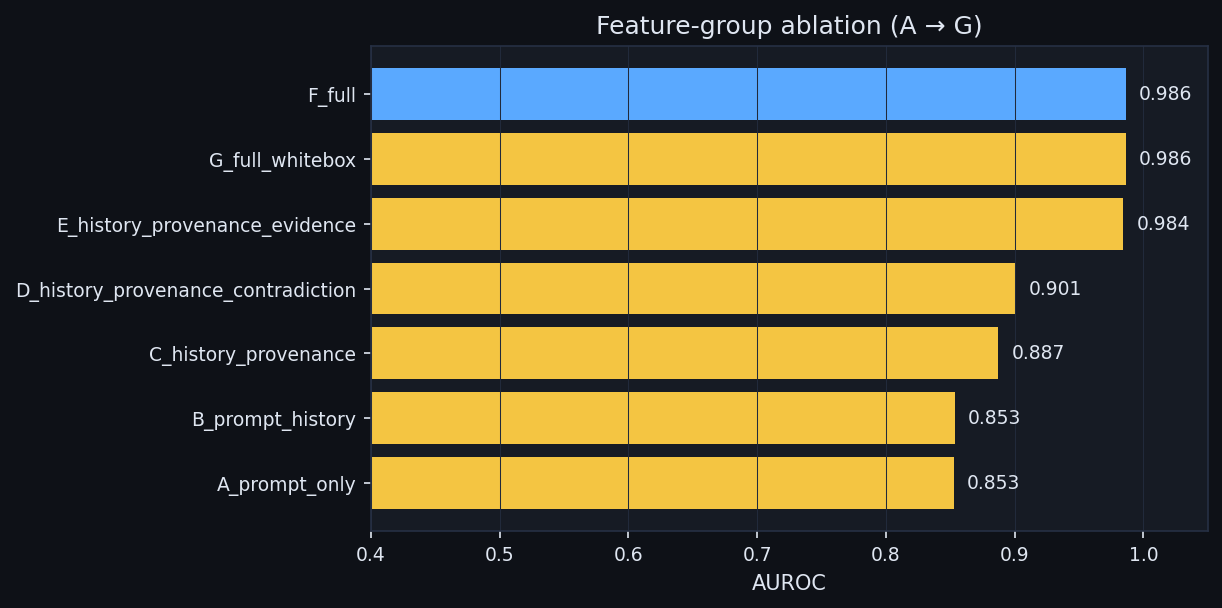
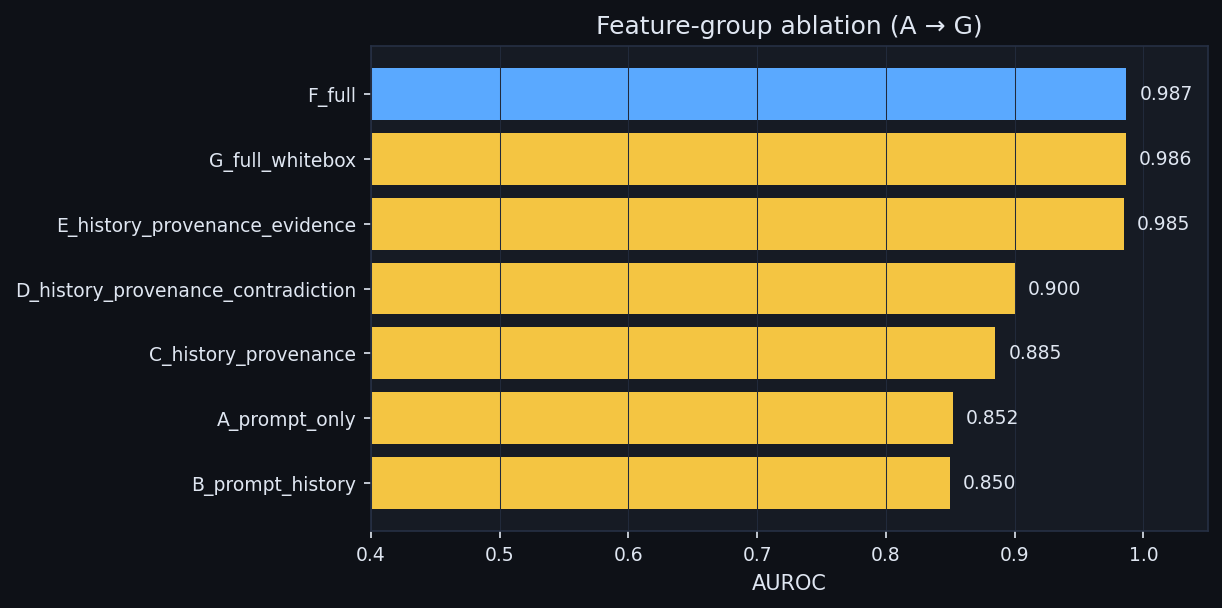
chore: sync published metrics and guard the README against drift
One small consistency pass after the latest engine fixes:
- regenerate both ablation artifacts, report, figures and paper so every
  artifact reflects the same current model/features;
- sync README and external-evaluation/leakage-control docs to the fresh
  report (precision/recall, cross-label AUROCs, external CIs and ablations
  had drifted from the saved artifacts);
- add a test that checks the README headline table and action-gate row
  against reports/stats.json, so this kind of drift fails CI next time.

The conference template and decision-log edits in the working tree are
user files and are intentionally not included.

Validation: 148 tests pass.

diff --git a/tests/test_report_paper.py b/tests/test_report_paper.py
@@ -1,6 +1,7 @@
 """Report + paper pipeline tests (static rendering, no LaTeX engine needed)."""
 import json
 import re
+from decimal import Decimal, ROUND_HALF_UP
 from pathlib import Path
 
 import pytest
@@ -83,6 +84,36 @@ def test_macros_contain_headline_numbers(stats):
     tex = render_macros(stats)
     assert f"{stats['model']['auroc']:.3f}" in tex
     assert "PASS" in tex or "FAIL" in tex
+
+
+def test_readme_headline_table_matches_generated_stats(stats):
+    """The README is user-facing results; don't let its numbers go stale."""
+    readme = (ROOT / "README.md").read_text()
+    leak = stats["leak_control"]["model"]
+    main = stats["model"]
+    heuristic = stats["heuristic_baseline"]
+
+    expected_rows = (
+        f"| AUROC | **{leak['auroc']:.3f}** | {main['auroc']:.3f}",
+        f"| AUPRC | **{leak['auprc']:.3f}** | {main['auprc']:.3f}",
+        f"| F1 @ tuned threshold | **{leak['f1']:.3f}** "
+        f"(P {leak['precision']:.3f} / R {leak['recall']:.3f}) | {main['f1']:.3f}",
+        f"{heuristic['auroc']:.3f} |",
+    )
+    for row in expected_rows:
+        assert row in readme, f"README headline table is stale; missing {row!r}"
+
+    def display(value):
+        return str(Decimal(str(value)).quantize(Decimal("0.001"), rounding=ROUND_HALF_UP))
+
+    gates = stats["benchmark"]["gates"]
+    gate_row = (
+        f"coverage {gates['coverage'] * 100:.1f} %, "
+        f"{gates['positives_caught'] * 100:.1f} % caught, "
+        f"generated-turn rate {display(gates['risk_generated'])} "
+        f"vs base {display(gates['risk_overall'])}"
+    )
+    assert gate_row in readme, f"README action gates are stale; missing {gate_row!r}"
 
 
 def test_tables_escape_underscores_and_render(stats):

diff --git a/paper/tables.tex b/paper/tables.tex
@@ -47,13 +47,13 @@ unsupported\_presupposition & 11 & 1.000 & 1.000 & 0.000 \\
 \toprule
 ID & Feature group & AUROC & $\Delta$ \\
 \midrule
-F & Full black-box feature set & 0.986 \\
+F & Full black-box feature set & 0.987 \\
 G & Full + white-box model signals & 0.986 & -0.000 \\
-E & History + provenance + evidence & 0.984 & -0.002 \\
-D & Prompt + history + provenance + contradiction & 0.901 & -0.085 \\
-C & Prompt + history + provenance & 0.887 & -0.099 \\
-B & Prompt + history & 0.853 & -0.133 \\
-A & Prompt only & 0.853 & -0.133 \\
+E & History + provenance + evidence & 0.985 & -0.002 \\
+D & Prompt + history + provenance + contradiction & 0.900 & -0.087 \\
+C & Prompt + history + provenance & 0.885 & -0.102 \\
+A & Prompt only & 0.852 & -0.135 \\
+B & Prompt + history & 0.850 & -0.137 \\
 \bottomrule
 \end{tabular}
 \end{table}
@@ -99,11 +99,11 @@ Quantity & PHC-Conversation & leak-controlled \\
 \midrule
 Templates identifying one category & 84.2\% & 0.0\% \\
 Template lookup AUROC & 0.808 & 0.635 \\
-A: prompt only & 0.853 & 0.434 \\
-C: + history, provenance & 0.887 & 0.793 \\
-D: + contradiction & 0.901 & 0.804 \\
-E: + evidence & 0.984 & 0.964 \\
-F: full & 0.986 & 0.961 \\
+A: prompt only & 0.852 & 0.434 \\
+C: + history, provenance & 0.885 & 0.793 \\
+D: + contradiction & 0.900 & 0.804 \\
+E: + evidence & 0.985 & 0.964 \\
+F: full & 0.987 & 0.961 \\
 \bottomrule
 \end{tabular}
 \end{table}

diff --git a/paper/macros.tex b/paper/macros.tex
@@ -51,11 +51,11 @@
 \newcommand{\riskgenerated}{0.021}
 \newcommand{\riskoverall}{0.633}
 \newcommand{\gatestatus}{PASS}
-\newcommand{\latmedian}{20.5}
-\newcommand{\lathigh}{23.4}
-\newcommand{\latmean}{20.4}
-\newcommand{\promptauroc}{0.853}
-\newcommand{\evidenceauroc}{0.984}
+\newcommand{\latmedian}{19.7}
+\newcommand{\lathigh}{21.1}
+\newcommand{\latmean}{19.3}
+\newcommand{\promptauroc}{0.852}
+\newcommand{\evidenceauroc}{0.985}
 \newcommand{\dian}{5923}
 \newcommand{\diaauroc}{0.431}
 \newcommand{\diastr}{0.510}

diff --git a/README.md b/README.md
@@ -30,12 +30,12 @@ type — the prompt-only ablation collapses to chance while the model holds:
 |---|---|---|---|
 | AUROC | **0.961** | 0.987 [0.972, 0.996] (1000× bootstrap CI) | 0.724 |
 | AUPRC | **0.981** | 0.992 | 0.852 |
-| F1 @ tuned threshold | **0.928** (P 0.970 / R 0.889) | 0.947 (P 0.942 / R 0.961) | 0.716 |
+| F1 @ tuned threshold | **0.928** (P 0.970 / R 0.889) | 0.947 (P 0.925 / R 0.971) | 0.716 |
 | ECE (10-bin) | 0.043 | 0.050 (0.092 uncalibrated) | 0.252 |
-| Multi-seed AUROC | 0.962 ± 0.001 (seeds 42 / 123 / 2024) | 0.987 ± 0.000 | — |
+| Multi-seed AUROC | 0.9619 ± 0.0009 (seeds 42 / 123 / 2024) | 0.9867 ± 0.0002 | — |
 | *Template lookup (leakage probe)* | *0.635* | *0.808* | *—* |
 | *Prompt-only ablation* | *0.434 (chance)* | *0.853* | *—* |
-| Action-level gates | **PASS** (coverage 52.3 %, 90.3 % caught, generated-turn rate 0.100 vs base 0.673) | **PASS** (coverage 52.8 %, 97.1 % caught, generated-turn rate 0.021 vs base 0.633) | — |
+| Action-level gates | **PASS** (coverage 52.3 %, 90.3 % caught, generated-turn rate 0.100 vs base 0.673) | **PASS** (coverage 52.8 %, 97.1 % caught, generated-turn rate 0.021 vs base 0.634) | — |
 
 The prompt-only figure on the standard benchmark is a memorised lookup, not
 a measure of what the prompt carries; the leak-controlled column is the
@@ -73,7 +73,7 @@ phc ablation --config configs/ablation.yaml \
 | Templates identifying one category | 84.2 % | 0.0 % |
 | Template lookup AUROC | 0.808 | 0.635 |
 | A: prompt only | 0.853 | **0.434** (chance) |
-| E: + history, provenance, evidence | 0.984 | 0.964 |
+| E: + history, provenance, evidence | 0.985 | 0.964 |
 | F: full | 0.987 | **0.961** |
 
 The prompt-only ablation collapses to chance while the full model barely
@@ -83,8 +83,8 @@ was already coming from the conversation.
 **Generalisation stress tests** (`phc stress`):
 
 - *Cross-label source* — training on `label_gold` and scoring against
-  `label_verified` gives AUROC **0.779** (against 0.987 for its own source),
-  and the reverse gives **0.694** (against 0.989). The model keeps much of
+  `label_verified` gives AUROC **0.779** (against 0.982 for its own source),
+  and the reverse gives **0.671** (against 0.988). The model keeps much of
   its discrimination against a label source it has never seen.
 - *Leave-one-category-out* — training on ten risk types and testing on the
   eleventh gives mean AUROC **0.804 ± 0.285** over 9 categories, from
@@ -92,16 +92,16 @@ was already coming from the conversation.
   framework transfers to risk types it has never seen for most categories,
   and fails on the two whose signal is specific to having seen them.
 
-Ablation AUROC (standard benchmark): `A_prompt_only` 0.853 → `B` 0.853 →
-`C` 0.887 → `D` 0.901 → `E_history_provenance_evidence` 0.984 →
-`F_full` 0.986. On the leak-controlled variant the same ladder reads
+Ablation AUROC (standard benchmark): `A_prompt_only` 0.852 → `B` 0.850 →
+`C` 0.885 → `D` 0.900 → `E_history_provenance_evidence` 0.985 →
+`F_full` 0.987. On the leak-controlled variant the same ladder reads
 0.434 → 0.789 → 0.793 → 0.804 → 0.964 → 0.961, and the ordering is the one
-the method section claims: history and provenance get you to 0.800,
+the method section claims: history and provenance get you to 0.793,
 contradiction adds a little, and evidence coverage is the single largest
 contributor.
 
 The cost-sensitive threshold search is stable across seeds: multi-seed F1 is
-0.943 ± 0.009 and the operating point varies by less than 0.07. The coverage
+0.946 ± 0.002. The coverage
 requirement (≥ 50 % of turns still answered) is imposed on the blocking
 cut-point during the validation-only threshold search, with a one-sided 95 %
 margin so that it holds on a fresh sample.
@@ -156,7 +156,7 @@ on val only), `stats` (paired significance between two checkpoints).
 ## Tests
 
 ```bash
-python3 -m pytest tests -q        # 140 tests, ~65 s
+python3 -m pytest tests -q        # 148 tests, ~65 s
 ```
 
 Covers utils, memory, the five consistency engines, retrieval/features, risk
@@ -183,10 +183,10 @@ Current zero-retraining results are intentionally visible:
 
 | Construction | Rows | PHC-X AUROC | 95% CI |
 |---|---:|---:|---:|
-| DiaHalu, turn-aligned | 5,923 turns | 0.429 | 0.403–0.456 |
+| DiaHalu, turn-aligned | 5,923 turns | 0.431 | 0.404–0.458 |
 | DiaHalu, stratified by history length | 10 strata | **0.510** | — |
-| HaluEval right/hallucinated pair (purity check) | 20,000 | 0.500 | 0.493–0.508 |
-| HaluEval counterfactual | 20,000 | **0.705** | 0.699–0.711 |
+| HaluEval right/hallucinated pair (purity check) | 20,000 | 0.500 | 0.493–0.507 |
+| HaluEval counterfactual | 20,000 | **0.705** | 0.698–0.713 |
 | HalluHard seeds | 250 | coverage only | N/A |
 
 Three things are now separated cleanly:

diff --git a/docs/external_evaluation.md b/docs/external_evaluation.md
@@ -20,10 +20,10 @@ on PHC-Conversation; no external labels are used for fitting or calibration.
 
 | Construction | Rows | Status | PHC-X AUROC | 95% CI |
 |---|---:|---|---:|---:|
-| DiaHalu, turn-aligned | 5,923 turns | scored | 0.429 | 0.403–0.456 |
-| DiaHalu, stratified by history length | 10 strata | scored | **0.507** | — |
-| HaluEval right/hallucinated pair | 20,000 paired responses | scored | 0.500 | 0.493–0.508 |
-| HaluEval counterfactual | 20,000 | scored | **0.709** | 0.702–0.716 |
+| DiaHalu, turn-aligned | 5,923 turns | scored | 0.431 | 0.404–0.458 |
+| DiaHalu, stratified by history length | 10 strata | scored | **0.510** | — |
+| HaluEval right/hallucinated pair | 20,000 paired responses | scored | 0.500 | 0.493–0.507 |
+| HaluEval counterfactual | 20,000 | scored | **0.705** | 0.698–0.713 |
 | HalluHard seeds | 250 | coverage only | N/A | N/A |
 
 ### DiaHalu, turn-aligned
@@ -40,12 +40,12 @@ Turns *after* an annotated error are excluded. They inherit the false premise
 the assistant just established, so they are genuinely risky but carry no
 annotation; labelling them 0 injects noise that inverts the signal.
 
-The raw AUROC of 0.429 is still confounded, because the annotated turn is
+The raw AUROC of 0.431 is still confounded, because the annotated turn is
 systematically earlier in the dialogue than the negatives (mean history 4.5
 turns against 5.6), and conversation length is itself a risk signal. The
 `stratified_by_history_length` field in the output reports the AUROC within
 each history-length stratum and a positives-weighted average of them:
-**0.507**. Once the confound is removed the system carries no DiaHalu signal.
+**0.510**. Once the confound is removed the system carries no DiaHalu signal.
 We report the stratified number, not the raw one.
 
 ### HaluEval, as a purity check
@@ -66,8 +66,8 @@ are used and only the context changes:
 
 Evidence is present in both cases, so the task cannot be solved by noticing
 that evidence is missing; it has to be solved by measuring how much of the
-question the evidence actually covers. The system reaches **AUROC 0.709**
-[0.702, 0.716]; the transparent heuristic baseline is slightly better (0.734).
+question the evidence actually covers. The system reaches **AUROC 0.705**
+[0.698, 0.713]; the transparent heuristic baseline is slightly better (0.734).
 This is a genuine external positive result, on external prompts, for the
 capability the framework is built around.
 
@@ -114,18 +114,18 @@ conversation, because each category's prompt template identifies the category
 and the categories have very different base rates. On a leak-controlled
 variant of the benchmark — one shared prompt pool, so the question cannot
 identify the risk type — that lookup table falls to 0.635 and the prompt-only
-ablation collapses to 0.485 (chance) while the full model holds 0.963. See
+ablation collapses to 0.434 (chance) while the full model holds 0.961. See
 `docs/leakage_control.md`.
 
 The external results now say something more precise than "generalization
 failed":
 
 - **Discrimination of hallucinated *responses* does not transfer.** The
-  synthetic AUROC of 0.986 is a property of the PHC-Conversation generator,
-  and the stratified DiaHalu result (0.507) shows the framework does not
+  synthetic AUROC of 0.987 is a property of the PHC-Conversation generator,
+  and the stratified DiaHalu result (0.510) shows the framework does not
   detect externally-produced hallucinations.
 - **The context-coverage capability does transfer.** On the same external
-  prompts, the system reaches 0.709 AUROC at telling whether the supplied
+  prompts, the system reaches 0.705 AUROC at telling whether the supplied
   context actually covers the question.
 
 What remains open is a benchmark whose labels represent the probability of

diff --git a/docs/leakage_control.md b/docs/leakage_control.md
@@ -62,8 +62,8 @@ phc ablation --config configs/ablation.yaml \
 | template lookup AUROC | 0.808 | 0.635 |
 | A: prompt only | 0.853 | **0.434** |
 | C: + history, provenance | 0.887 | 0.793 |
-| D: + contradiction | 0.901 | 0.804 |
-| E: + evidence | 0.984 | 0.964 |
+| D: + contradiction | 0.900 | 0.804 |
+| E: + evidence | 0.985 | 0.964 |
 | F: full | 0.987 | **0.961** |
 | action-level gates | PASS | PASS |
 
@@ -93,10 +93,10 @@ annotators.
 
 | Trained on | Scored against | AUROC |
 |---|---|---:|
-| `label_gold` | `label_gold` (its own source) | 0.983 |
+| `label_gold` | `label_gold` (its own source) | 0.982 |
 | `label_gold` | `label_verified` (unseen source) | **0.779** |
-| `label_verified` | `label_verified` (its own source) | 0.989 |
-| `label_verified` | `label_gold` (unseen source) | **0.695** |
+| `label_verified` | `label_verified` (its own source) | 0.988 |
+| `label_verified` | `label_gold` (unseen source) | **0.671** |
 
 The model keeps a substantial part of its discrimination against a label
 source it has never seen, which is evidence that it learned something about
@@ -115,8 +115,8 @@ model has to detect a risk type it has never been trained on.
 | `contradictory_context` | 12 | 0.925 |
 | `temporal_inconsistency` | 10 | 0.917 |
 | `referential_ambiguity` | 20 | 0.874 |
-| `supported_context` | 18 | 0.195 |
 | `unsupported_context` | 18 | 0.369 |
+| `supported_context` | 18 | 0.195 |
 
 Mean **0.804 ± 0.285** over 9 categories (two further categories have a
 single-class held-out split, so no AUROC is defined). The framework transfers
